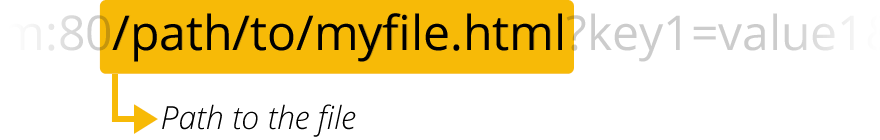
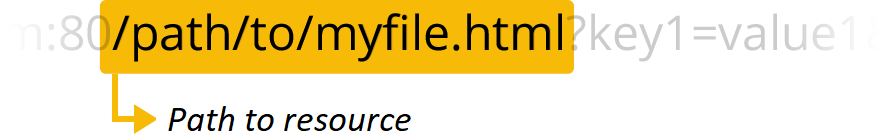
Improve What is URL structure and images (#1963)
* Improve What is URL structure and images

* Shrink images

* Shrink even more files

Changed region(s): [[0.1841, 0.7429, 0.4909, 0.9714]]

diff --git a/files/en-us/learn/common_questions/what_is_a_url/index.html b/files/en-us/learn/common_questions/what_is_a_url/index.html
@@ -4,7 +4,6 @@ slug: Learn/Common_questions/What_is_a_URL
 tags:
   - Beginner
   - Infrastructure
-  - NeedsActiveLearning
   - URL
   - resources
   - urls
@@ -32,46 +31,70 @@ tags:
 
 <p><strong>URL</strong> stands for <em>Uniform Resource Locator</em>. A URL is nothing more than the address of a given unique resource on the Web. In theory, each valid URL points to a unique resource. Such resources can be an HTML page, a CSS document, an image, etc. In practice, there are some exceptions, the most common being a URL pointing to a resource that no longer exists or that has moved. As the resource represented by the URL and the URL itself are handled by the Web server, it is up to the owner of the web server to carefully manage that resource and its associated URL.</p>
 
-<h2 id="Active_Learning">Active Learning</h2>
-
-<p><em>There is no active learning available yet. <a href="/en-US/docs/MDN/Contribute/Getting_started">Please, consider contributing</a>.</em></p>
-
 <h2 id="Basics_anatomy_of_a_URL">Basics: anatomy of a URL</h2>
 
 <p>Here are some examples of URLs:</p>
 
-<pre class="notranslate">https://developer.mozilla.org
+<pre>https://developer.mozilla.org
 https://developer.mozilla.org/en-US/docs/Learn/
 https://developer.mozilla.org/en-US/search?q=URL</pre>
 
 <p>Any of those URLs can be typed into your browser's address bar to tell it to load the associated page (resource).</p>
 
-<p>A URL is composed of different parts, some mandatory and others optional. Let's see the most important parts using the following URL:</p>
+<p>A URL is composed of different parts, some mandatory and others optional. The most important parts are highlighted on the URL below (details are provided in the following sections):</p>
 
-<pre class="notranslate">http://www.example.com:80/path/to/myfile.html?key1=value1&amp;key2=value2#SomewhereInTheDocument</pre>
+<img alt="full  url" src="mdn-url-all.png">
 
-<dl>
- <dt><img alt="Protocol" src="mdn-url-protocol@x2_update.png"></dt>
- <dd><code>http</code> is the protocol. The first part of the URL indicates which protocol the browser must use. A protocol is a set method for exchanging or transferring data around a computer network. Usually for websites it is the HTTP protocol or its secured version, HTTPS. The Web requires one of these two, but browsers also know how to handle other protocols such as <code>mailto:</code> (to open a mail client) or <code>ftp:</code> to handle file transfer, so don't be surprised if you see such protocols.</dd>
- <dd><code>://</code> marks the end of the scheme (protocol) and the start of the authority. If there is a <code>//</code> after the colon (<code>:</code>), this indicates that what follows is the authority. The colon acts as a delimiter between the scheme and the authority component which is preceded by two slashes. The authority in a URL is <code>//www.example.com:80</code>, where the domain name is <code>www.example.com</code> and the port is <code>:80</code>. One example of a URL that doesn't use an authority is the mail client (<code>mailto:foobar</code>). It contains a scheme but doesn't use an authority component. Therefore, the colon is not preceded by two slashes and only acts as a delimiter between the scheme and mail address.</dd>
- <dt><img alt="Domain Name" src="mdn-url-domain@x2.png"></dt>
- <dd><code>www.example.com</code> is the domain name. It indicates which Web server is being requested. Alternatively, it is possible to directly use an {{Glossary("IP address")}}, but because it is less convenient, it is not often used on the Web.</dd>
- <dt><img alt="Port" src="mdn-url-port@x2.png"></dt>
- <dd><code>:80</code> is the port. It indicates the technical "gate" used to access the resources on the web server. It is usually omitted if the web server uses the standard ports of the HTTP protocol (80 for HTTP and 443 for HTTPS) to grant access to its resources. Otherwise it is mandatory.</dd>
- <dt><img alt="Path to the file" src="mdn-url-path@x2.png"></dt>
- <dd><code>/path/to/myfile.html</code> is the path to the resource on the Web server. In the early days of the Web, a path like this represented a physical file location on the Web server. Nowadays, it is mostly an abstraction handled by Web servers without any physical reality.</dd>
- <dt><img alt="Parameters" src="mdn-url-parameters@x2.png"></dt>
- <dd><code>?key1=value1&amp;key2=value2</code> are extra parameters provided to the Web server. Those parameters are a list of key/value pairs separated with the <code>&amp;</code> symbol. The Web server can use those parameters to do extra stuff before returning the resource. Each Web server has its own rules regarding parameters, and the only reliable way to know if a specific Web server is handling parameters is by asking the Web server owner.</dd>
- <dt><img alt="Anchor" src="mdn-url-anchor@x2.png"></dt>
- <dd><code>#SomewhereInTheDocument</code> is an anchor to another part of the resource itself. An anchor represents a sort of "bookmark" inside the resource, giving the browser the directions to show the content located at that "bookmarked" spot. On an HTML document, for example, the browser will scroll to the point where the anchor is defined; on a video or audio document, the browser will try to go to the time the anchor represents. It is worth noting that the part after the <strong>#</strong>, also known as the <em><strong>fragment identifier</strong>, is never sent to the server with the request.</em></dd>
-</dl>
+<div class="notecard note">
+  <h4>Tip</h4>
+  <p>You might think of a URL like a regular postal mail address: the <em>scheme</em> represents the postal service you want to use, the <em>domain name</em> is the city or town, and the <em>port</em> is like the zip code; the <em>path</em> represents the building where your mail should be delivered; the <em>parameters</em> represent extra information such as the number of the apartment in the building; and, finally, the <em>anchor</em> represents the actual person to whom you've addressed your mail.</p>
+</div>
 
 <div class="notecard note">
   <h4>Note</h4>
-  <p>There are <a href="https://en.wikipedia.org/wiki/Uniform_Resource_Locator">some extra parts and some extra rules</a> regarding URLs, but they are not relevant for regular users or Web developers. Don\'t worry about this, you don\'t need to know them to build and use fully functional URLs.</p>
+  <p>There are <a href="https://en.wikipedia.org/wiki/Uniform_Resource_Locator">some extra parts and some extra rules</a> regarding URLs, but they are not relevant for regular users or Web developers. Don't worry about this, you don't need to know them to build and use fully functional URLs.</p>
 </div>
 
-<p>You might think of a URL like a regular postal mail address: the <em>protocol</em> represents the postal service you want to use, the <em>domain name</em> is the city or town, and the <em>port</em> is like the zip code; the <em>path</em> represents the building where your mail should be delivered; the <em>parameters</em> represent extra information such as the number of the apartment in the building; and, finally, the <em>anchor</em> represents the actual person to whom you've addressed your mail.</p>
+<h2 id="Scheme">Scheme</h2>
+
+<img alt="Scheme" src="mdn-url-protocol@x2_update.png">
+
+<p>The first part of the URL is the <em>scheme</em>, which indicates the protocol that the browser must use to request the resouce (a protocol is a set method for exchanging or transferring data around a computer network). Usually for websites the protocol is HTTPS or HTTP (its unsecured version). Addressing web pages requires one of these two, but browsers also know how to handle other schemes such as <code>mailto:</code> (to open a mail client) or <code>ftp:</code> to handle file transfer, so don't be surprised if you see such protocols.</p>
+
+<h2 id="Authority">Authority</h2>
+
+<img alt="Authority" src="mdn-url-authority.png">
+
+
+<p>Next follows the <em>authority</em>, which is separated from the scheme by the character pattern <code>://</code>. If present the authority includes both the <em>domain</em> (e.g. <code>www.example.com</code>) and the <em>port</em> (<code>80</code>), separated by a colon:</p>
+<ul>
+  <li>The domain indicates which Web server is being requested. Usually this is a domain name, but an {{Glossary("IP address")}} may also be used (but this is rare as it is much less convenient).</li>
+  <li>The port indicates the technical "gate" used to access the resources on the web server. It is usually omitted if the web server uses the standard ports of the HTTP protocol (80 for HTTP and 443 for HTTPS) to grant access to its resources. Otherwise it is mandatory.</li>
+</ul>
+
+<div class="notecard note">
+  <h4>Note</h4>
+<p>The separator between the scheme and authority is <code>://</code>. The colon separates the scheme from the next part of the URL, while <code>//</code> indicates that the next part of the URL is the authority.</p>
+<p>One example of a URL that doesn't use an authority is the mail client (<code>mailto:foobar</code>). It contains a scheme but doesn't use an authority component. Therefore, the colon is not preceded by two slashes and only acts as a delimiter between the scheme and mail address.</p>
+</div>
+
+ <h2 id="Path_to_resource">Path to resource</h2>
+
+ <img alt="Path to the file" src="mdn-url-path@x2.png">
+ <p><code>/path/to/myfile.html</code> is the path to the resource on the Web server. In the early days of the Web, a path like this represented a physical file location on the Web server. Nowadays, it is mostly an abstraction handled by Web servers without any physical reality.</p>
+
+
+ <h2 id="Parameters">Parameters</h2>
+
+ <img alt="Parameters" src="mdn-url-parameters@x2.png">
+
+ <p><code>?key1=value1&amp;key2=value2</code> are extra parameters provided to the Web server. Those parameters are a list of key/value pairs separated with the <code>&amp;</code> symbol. The Web server can use those parameters to do extra stuff before returning the resource. Each Web server has its own rules regarding parameters, and the only reliable way to know if a specific Web server is handling parameters is by asking the Web server owner.</p>
+
+ <h2 id="Anchor">Anchor</h2>
+
+ <img alt="Anchor" src="mdn-url-anchor@x2.png">
+ <p><code>#SomewhereInTheDocument</code> is an anchor to another part of the resource itself. An anchor represents a sort of "bookmark" inside the resource, giving the browser the directions to show the content located at that "bookmarked" spot. On an HTML document, for example, the browser will scroll to the point where the anchor is defined; on a video or audio document, the browser will try to go to the time the anchor represents. It is worth noting that the part after the <strong>#</strong>, also known as the <em><strong>fragment identifier</strong>, is never sent to the server with the request.</em></p>
+
 
 <h2 id="How_to_use_URLs">How to use URLs</h2>
 
@@ -108,17 +131,17 @@ https://developer.mozilla.org/en-US/search?q=URL</pre>
 <dl>
  <dt>Full URL (the same as the one we used before)</dt>
  <dd>
- <pre class="notranslate">https://developer.mozilla.org/en-US/docs/Learn</pre>
+ <pre>https://developer.mozilla.org/en-US/docs/Learn</pre>
  </dd>
  <dt>Implicit protocol</dt>
  <dd>
- <pre class="notranslate">//developer.mozilla.org/en-US/docs/Learn</pre>
+ <pre>//developer.mozilla.org/en-US/docs/Learn</pre>
 
  <p>In this case, the browser will call that URL with the same protocol as the one used to load the document hosting that URL.</p>
  </dd>
  <dt>Implicit domain name</dt>
  <dd>
- <pre class="notranslate">/en-US/docs/Learn</pre>
+ <pre>/en-US/docs/Learn</pre>
 
  <p>This is the most common use case for an absolute URL within an HTML document. The browser will use the same protocol and the same domain name as the one used to load the document hosting that URL. <strong>Note:</strong> <em>it isn't possible to omit the domain name without omitting the protocol as well</em>.</p>
  </dd>
@@ -131,12 +154,11 @@ https://developer.mozilla.org/en-US/search?q=URL</pre>
 <dl>
  <dt>Sub-resources</dt>
  <dd>
- <pre class="notranslate">Skills/Infrastructure/Understanding_URLs
-</pre>
+ <pre>Skills/Infrastructure/Understanding_URLs</pre>
  Because that URL does not start with <code>/</code>, the browser will attempt to find the document in a sub-directory of the one containing the current resource. So in this example,  we really want to reach this URL: <code>https://developer.mozilla.org/en-US/docs/Learn/Skills/Infrastructure/Understanding_URLs</code></dd>
  <dt>Going back in the directory tree</dt>
  <dd>
- <pre class="notranslate">../CSS/display</pre>
+ <pre>../CSS/display</pre>
 
  <p>In this case, we use the <code>../</code> writing convention — inherited from the UNIX file system world — to tell the browser we want to go up from one directory. Here we want to reach this URL: <code>https://developer.mozilla.org/en-US/docs/Learn/../CSS/display</code>, which can be simplified to: <code>https://developer.mozilla.org/en-US/docs/CSS/display</code></p>
  </dd>
